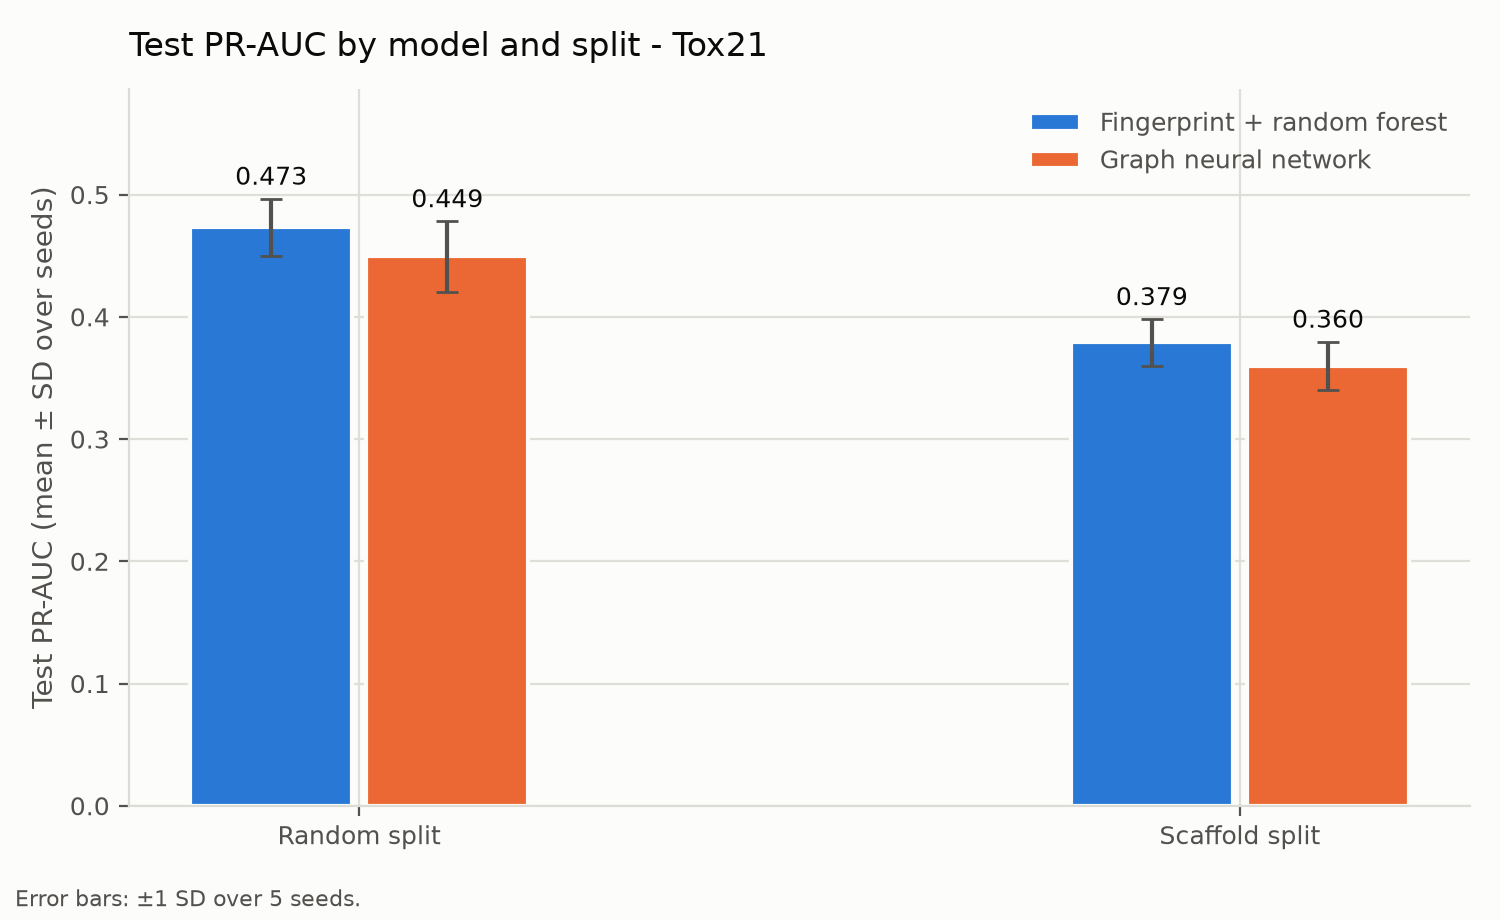
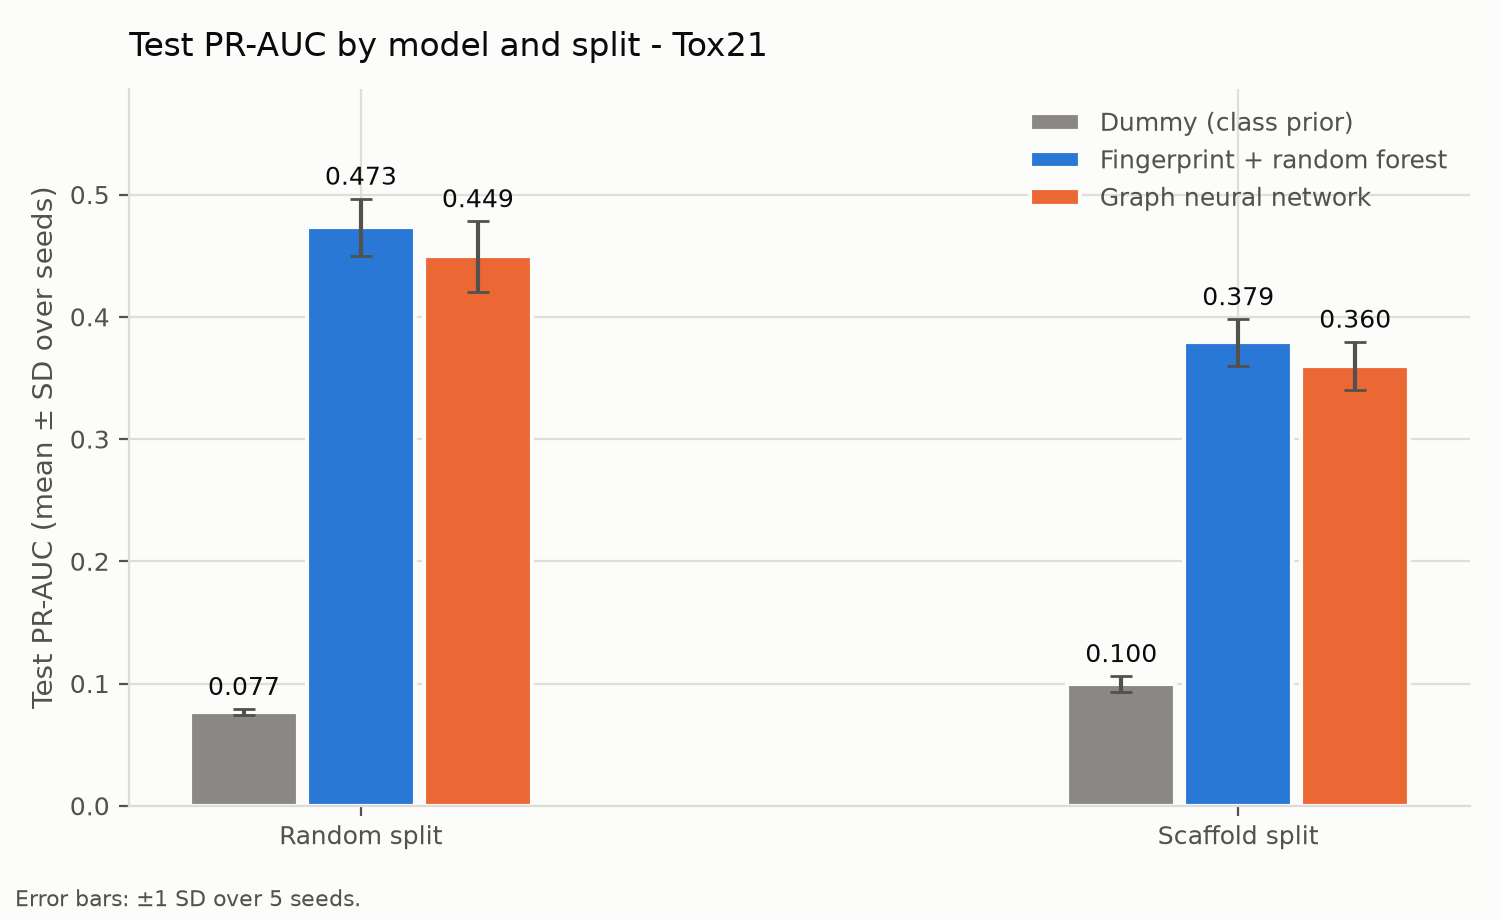
fix(plots): keep a bar sitting on the chance floor visible
The dummy scores exactly 0.500 ROC-AUC and the ROC-AUC axis starts at
0.5, so its bar had zero height: the chart rendered as two coloured
bars, a gap, and a floating "0.500" label over nothing.

Same class of failure as the blank PR-AUC charts -- data outside the
visible axis -- at the other end of the scale, and the test added for
that one missed it: it asserts each value lies within the limits, and
0.5 lies within [0.5, 1.0]. A bar exactly on the floor passes and still
draws nothing. The new test inspects the drawn figure and requires every
bar to have height above the floor.

_bar_ylim now takes the bar heights as well as their tops and drops the
ROC-AUC floor just below the shortest bar when one would vanish, keeping
0.5 when nothing sits on it. The dummy gains a label and a neutral grey,
and MODEL_ORDER puts the bars in floor/baseline/GNN order -- sorting by
name placed dummy between the two models, reading as a third competing
approach rather than the floor they are measured against.

Changed region(s): [[0.1227, 0.1826, 0.3373, 0.913], [0.7053, 0.3043, 0.92, 0.913], [0.6747, 0.1217, 0.9813, 0.2435]]

diff --git a/src/admet/analysis/plots.py b/src/admet/analysis/plots.py
@@ -72,7 +72,14 @@ _INK_SECONDARY = "#52514e"
 _GRID = "#dcdbd6"
 
 #: Model is the colour channel.
-MODEL_COLORS: dict[str, str] = {"rf": "#2a78d6", "gnn": "#eb6834"}
+#:
+#: The dummy is deliberately a neutral grey rather than a third hue: it is
+#: the floor the two approaches are measured against, not a third approach.
+MODEL_COLORS: dict[str, str] = {
+    "rf": "#2a78d6",
+    "gnn": "#eb6834",
+    "dummy": "#8a8784",
+}
 
 #: Colour for the gap series, deliberately *not* a model hue.
 #:
@@ -83,9 +90,14 @@ MODEL_COLORS: dict[str, str] = {"rf": "#2a78d6", "gnn": "#eb6834"}
 GAP_COLOR: str = "#3d3c3a"
 
 MODEL_LABELS: dict[str, str] = {
+    "dummy": "Dummy (class prior)",
     "rf": "Fingerprint + random forest",
     "gnn": "Graph neural network",
 }
+
+#: Left-to-right bar order: the floor, then the baseline, then the advanced
+#: model, so a group reads in increasing order of what it is claiming.
+MODEL_ORDER: tuple[str, ...] = ("dummy", "rf", "gnn")
 
 #: Split is the line-style / marker channel — the secondary encoding.
 SPLIT_STYLES: dict[str, dict[str, object]] = {
@@ -103,13 +115,31 @@ SPLIT_LABELS: dict[str, str] = {
 _LINE_WIDTH = 2.0
 _MARKER_SIZE = 7.0
 
+#: Smallest bar height, in axis units, that still reads as a bar rather than
+#: as a gap between its neighbours. Used to keep a bar sitting on the ROC-AUC
+#: chance floor visible.
+_MIN_VISIBLE_BAR = 0.02
+
 
 def _label(mapping: dict[str, str], key: str) -> str:
     """Human-readable name, falling back to the raw key for a new model."""
     return mapping.get(key, key)
 
 
-def _bar_ylim(metric: str, tops: Sequence[float]) -> tuple[float, float]:
+def _model_sort_key(model: str) -> tuple[int, str]:
+    """Order models by :data:`MODEL_ORDER`; unregistered ones sort last.
+
+    Sorting by name is what put ``dummy`` between the baseline and the GNN,
+    which reads as a third competing approach rather than as the floor.
+    """
+    if model in MODEL_ORDER:
+        return MODEL_ORDER.index(model), model
+    return len(MODEL_ORDER), model
+
+
+def _bar_ylim(
+    metric: str, tops: Sequence[float], heights: Sequence[float] = ()
+) -> tuple[float, float]:
     """Y-limits for the bar chart, by metric.
 
     A bar chart's baseline has to be a value the reader can treat as "none of
@@ -123,9 +153,19 @@ def _bar_ylim(metric: str, tops: Sequence[float]) -> tuple[float, float]:
     This used to be a hardcoded ``(0.5, 1.0)``, which silently clipped every
     PR-AUC figure: Tox21's PR-AUC is about 0.35-0.47, entirely below the
     floor, so the chart rendered with no bars at all.
+
+    ``heights`` is the bar heights without their error bars, and exists for
+    the other end of the same failure. A bar *at* the baseline has zero
+    height and disappears, leaving only a floating value label and an
+    unexplained gap between its neighbours. The dummy model sits at exactly
+    0.5 ROC-AUC by construction, so this is not a corner case: the floor
+    drops just below the shortest bar whenever one would otherwise vanish.
     """
     if metric == "roc_auc":
-        return 0.5, 1.0
+        shortest = min(heights, default=1.0)
+        if shortest > 0.5 + _MIN_VISIBLE_BAR:
+            return 0.5, 1.0
+        return max(0.0, shortest - _MIN_VISIBLE_BAR), 1.0
     headroom = max(tops, default=1.0) * 1.18
     return 0.0, min(1.0, max(headroom, 0.1))
 
@@ -243,13 +283,14 @@ def plot_split_comparison(
         return None
 
     splits = sorted({s.split for s in rows})
-    models = sorted({s.model for s in rows}, key=lambda m: m != "rf")
+    models = sorted({s.model for s in rows}, key=_model_sort_key)
     # Thin marks: the group occupies under half the slot, leaving the groups
     # clearly separated rather than filling the axis with ink.
     width = 0.40 / max(len(models), 1)
 
     figure, ax = _new_figure()
     tops: list[float] = []
+    all_heights: list[float] = []
     for index, model in enumerate(models):
         positions, heights, errors = [], [], []
         for group, split in enumerate(splits):
@@ -263,6 +304,7 @@ def plot_split_comparison(
             heights.append(getattr(match, f"{metric}_mean"))
             errors.append(getattr(match, f"{metric}_std") or 0.0)
             tops.append(heights[-1] + errors[-1])
+            all_heights.append(heights[-1])
 
         bars = ax.bar(
             positions,
@@ -295,7 +337,7 @@ def plot_split_comparison(
 
     ax.set_xticks(range(len(splits)))
     ax.set_xticklabels([_label(SPLIT_LABELS, s) for s in splits])
-    ax.set_ylim(*_bar_ylim(metric, tops))
+    ax.set_ylim(*_bar_ylim(metric, tops, all_heights))
     _style_axes(
         ax,
         title=f"Test {metric.replace('_', '-').upper()} by model and split{_suffix(dataset)}",
@@ -334,7 +376,7 @@ def plot_learning_curves(
         return None
 
     splits = sorted({s.split for s in rows})
-    models = sorted({s.model for s in rows}, key=lambda m: m != "rf")
+    models = sorted({s.model for s in rows}, key=_model_sort_key)
     ticks = sorted({int(round(s.train_fraction * 100)) for s in rows})
     name = metric.replace("_", "-").upper()
 

diff --git a/tests/test_plots.py b/tests/test_plots.py
@@ -231,9 +231,11 @@ def test_each_learning_curve_panel_holds_both_models(capture, tmp_path: Path) ->
     plot_learning_curves(_curve(), tmp_path / "c.png", dataset="tox21")
     for ax in capture["figure"].get_axes():
         # errorbar() puts the label on the container, not the Line2D, so the
-        # colours are the identity to check here.
+        # colours are the identity to check here. Named explicitly rather than
+        # compared against every registered colour: the dummy is registered
+        # too but has only the 100% point, so it draws no curve.
         colors = {line.get_color() for line in ax.get_lines()}
-        assert colors == set(MODEL_COLORS.values())
+        assert colors == {MODEL_COLORS["rf"], MODEL_COLORS["gnn"]}
 
 
 def test_every_learning_curve_point_is_inside_its_panel(
@@ -300,3 +302,70 @@ def test_figures_state_what_the_error_bars_are(capture, tmp_path: Path) -> None:
     plot_learning_curves(_curve(), tmp_path / "c.png", dataset="tox21")
     note = " ".join(t.get_text() for t in capture["figure"].texts)
     assert "±1 SD" in note and "seeds" in note
+
+
+# --------------------------------------------------------------------------- #
+# The dummy floor: a bar sitting exactly on the baseline
+# --------------------------------------------------------------------------- #
+
+
+def _grid_with_dummy(dataset: str = "tox21"):
+    """The real Tox21 shape: a dummy at exactly 0.5 ROC-AUC, beside two models."""
+    rows = _grid(dataset)
+    rows += [
+        _summary(dataset=dataset, model="dummy", split="random", roc=0.5, pr=0.077),
+        _summary(dataset=dataset, model="dummy", split="scaffold", roc=0.5, pr=0.100),
+    ]
+    return rows
+
+
+def test_a_bar_on_the_chance_floor_is_still_visible() -> None:
+    """The dummy scores exactly 0.5, which is the ROC-AUC baseline.
+
+    With the floor pinned at 0.5 the bar has zero height: the PNG is written,
+    nothing raises, and the reader sees a floating "0.500" label over an
+    unexplained gap between the other two bars. The same silent-blank failure
+    as the PR-AUC one above, at the other end of the axis.
+    """
+    low, high = _bar_ylim("roc_auc", [0.85, 0.5], [0.83, 0.5])
+    assert low < 0.5, "a bar at 0.5 would render with zero height"
+    assert high == 1.0
+
+
+def test_the_chance_floor_is_kept_when_nothing_sits_on_it() -> None:
+    """Without a dummy the axis must not drift off 0.5 — chance is the baseline."""
+    assert _bar_ylim("roc_auc", [0.85, 0.78], [0.83, 0.76]) == (0.5, 1.0)
+
+
+def test_every_dummy_bar_has_height_in_the_real_figure(capture, tmp_path: Path) -> None:
+    """Checks the drawn figure, not the helper: every bar must be visible."""
+    for metric in ("roc_auc", "pr_auc"):
+        plot_split_comparison(
+            _grid_with_dummy(), tmp_path / f"{metric}.png",
+            metric=metric, dataset="tox21",
+        )
+        ax = capture["figure"].get_axes()[0]
+        floor, _ = ax.get_ylim()
+        drawn = [p for p in ax.patches if p.get_width() > 0]
+        assert drawn, f"{metric}: no bars drawn at all"
+        for patch in drawn:
+            visible = patch.get_y() + patch.get_height() - floor
+            assert visible > 0, (
+                f"{metric}: a bar of height {patch.get_height()} sits on the "
+                f"axis floor {floor} and renders as nothing"
+            )
+
+
+def test_the_dummy_is_not_painted_in_a_model_colour(capture, tmp_path: Path) -> None:
+    """The floor is not a third competing approach, so it gets a neutral."""
+    plot_split_comparison(
+        _grid_with_dummy(), tmp_path / "c.png", metric="pr_auc", dataset="tox21"
+    )
+    assert MODEL_COLORS["dummy"] not in (MODEL_COLORS["rf"], MODEL_COLORS["gnn"])
+    ax = capture["figure"].get_axes()[0]
+    labels = [t.get_text() for t in ax.get_legend().get_texts()]
+    assert labels == [
+        "Dummy (class prior)",
+        "Fingerprint + random forest",
+        "Graph neural network",
+    ], "the floor should read first, before the two approaches it bounds"
